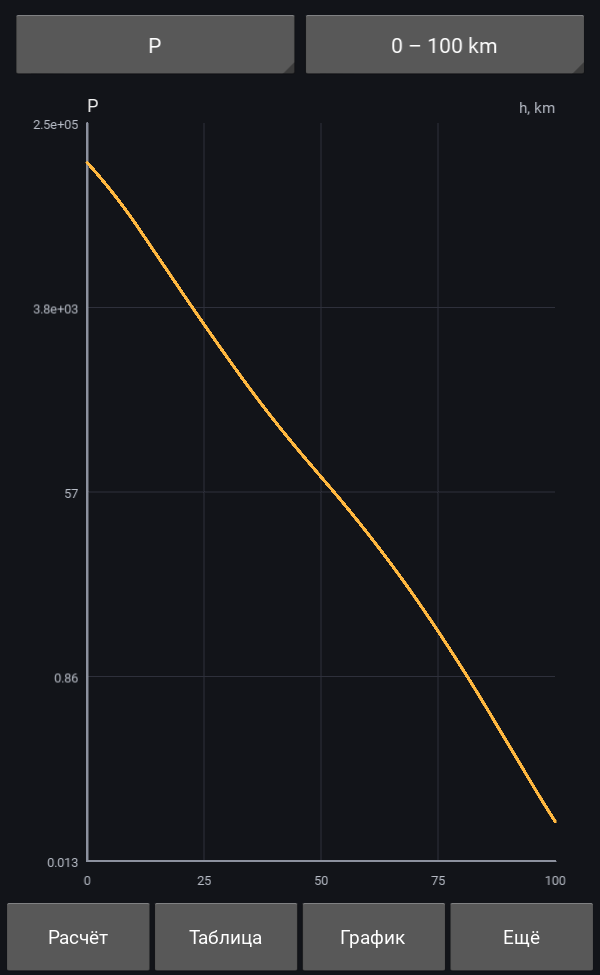
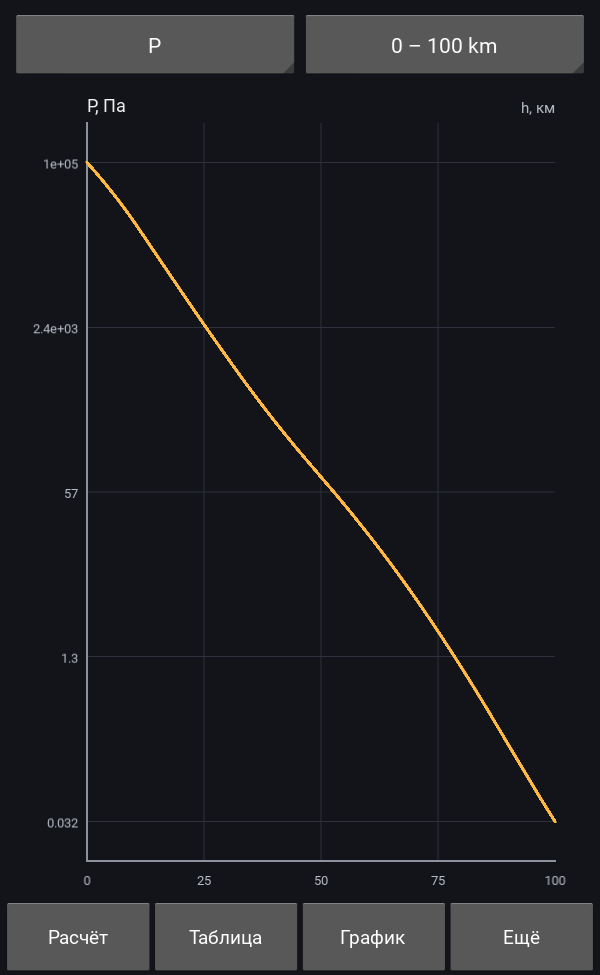
fix: tie plot axis labels to the data and show units
- y-axis ticks are placed at the data extremes, so the value at h = 0
  no longer appears to change when the height range changes
- axis titles include units and are localized (P, Па / P, Pa, ...)
- add std81.plotting.scale_ticks with tests

diff --git a/main.py b/main.py
@@ -38,6 +38,7 @@ from std81 import (
     parse_request,
     rows_to_csv,
 )
+from std81.plotting import scale_ticks
 
 _SUPERSCRIPT = re.compile(r'\^(-?\d+)')
 
@@ -225,12 +226,12 @@ class TableScreen(BoxLayout):
         _toast(i18n.tr('table_copied', count=len(self.rows)))
 
 
-# (symbol, attribute, logarithmic)
+# (symbol, attribute, logarithmic, axis label key)
 PLOT_PARAMETERS = (
-    ('P', 'pressure', True),
-    ('T', 'temperature', False),
-    ('rho', 'density', True),
-    ('a', 'sound_speed', False),
+    ('P', 'pressure', True, 'plot_axis_p'),
+    ('T', 'temperature', False, 'plot_axis_t'),
+    ('ρ', 'density', True, 'plot_axis_rho'),
+    ('a', 'sound_speed', False, 'plot_axis_a'),
 )
 PLOT_SPANS = (20_000, 50_000, 100_000, 1_200_000)
 PLOT_SAMPLES = 240
@@ -263,11 +264,16 @@ class PlotWidget(Widget):
             return
 
         xs = self._xs
-        values = [self._log10(v) for v in self._ys]
         x0, x1 = xs[0], xs[-1]
-        y0, y1 = min(values), max(values)
-        if y0 == y1:
-            y0, y1 = y0 - 1.0, y1 + 1.0
+        low, high = min(self._ys), max(self._ys)
+        if low == high:
+            position = log10(low) if self._log else low
+            positions = [position] * 5
+            shown = [low] * 5
+            y0, y1 = position - 0.5, position + 0.5
+        else:
+            positions, shown = scale_ticks(low, high, 5, self._log)
+            y0, y1 = positions[0], positions[-1]
         pad = (y1 - y0) * 0.06
         y0 -= pad
         y1 += pad
@@ -278,13 +284,14 @@ class PlotWidget(Widget):
         def py(y):
             return bottom + (y - y0) / (y1 - y0) * height
 
+        x_ticks = [x0 + (x1 - x0) * index / 4 for index in range(5)]
+
         with self.canvas:
             Color(0.18, 0.19, 0.23, 1)
-            for index in (1, 2, 3):
-                y = bottom + height * index / 4
-                Line(points=[left, y, left + width, y], width=1)
-                x = left + width * index / 4
-                Line(points=[x, bottom, x, bottom + height], width=1)
+            for tick in positions:
+                Line(points=[left, py(tick), left + width, py(tick)], width=1)
+            for tick in x_ticks[1:-1]:
+                Line(points=[px(tick), bottom, px(tick), bottom + height], width=1)
 
             Color(0.55, 0.57, 0.62, 1)
             Line(points=[left, bottom, left + width, bottom], width=1.2)
@@ -292,24 +299,17 @@ class PlotWidget(Widget):
 
             Color(1.0, 0.72, 0.25, 1)
             points = []
-            for x, y in zip(xs, values):
-                points.extend((px(x), py(y)))
+            for x, y in zip(xs, self._ys):
+                points.extend((px(x), py(log10(y) if self._log else y)))
             Line(points=points, width=1.6)
 
         self._text(self._title, left, self.height - dp(18), size=12, color=(0.95, 0.95, 0.95, 1))
-        self._text('h, km', left + width, self.height - dp(18), size=10, anchor='right')
-        for index in range(5):
-            value = y0 + (y1 - y0) * index / 4
-            shown = 10 ** value if self._log else value
-            self._text(f'{shown:.2g}', left - dp(6), bottom + height * index / 4 - dp(6),
-                       size=9, anchor='right')
-            x = x0 + (x1 - x0) * index / 4
-            self._text(f'{x / 1000:.0f}', left + width * index / 4, dp(8),
-                       size=9, anchor='center')
-
-    @staticmethod
-    def _log10(value):
-        return log10(value) if value > 0 else -12.0
+        self._text(i18n.tr('plot_axis_h'), left + width, self.height - dp(18),
+                   size=10, anchor='right')
+        for tick, value in zip(positions, shown):
+            self._text(f'{value:.2g}', left - dp(6), py(tick) - dp(6), size=9, anchor='right')
+        for tick in x_ticks:
+            self._text(f'{tick / 1000:.0f}', px(tick), dp(8), size=9, anchor='center')
 
     def _text(self, text, x, y, size=10, anchor='left', color=(0.72, 0.74, 0.78, 1)):
         core = CoreLabel(text=text, font_size=sp(size))
@@ -327,7 +327,7 @@ class PlotWidget(Widget):
 class PlotScreen(BoxLayout):
     def on_kv_post(self, base_widget):
         spinner = self.ids.parameter_spinner
-        spinner.values = [symbol for symbol, _, _ in PLOT_PARAMETERS]
+        spinner.values = [item[0] for item in PLOT_PARAMETERS]
         spinner.text = 'P'
         self.ids.span_spinner.values = [f'0 – {span // 1000} km' for span in PLOT_SPANS]
         self.ids.span_spinner.text = self.ids.span_spinner.values[2]
@@ -345,7 +345,11 @@ class PlotScreen(BoxLayout):
         xs = [span * index / (PLOT_SAMPLES - 1) for index in range(PLOT_SAMPLES)]
         states = [compute(height) for height in xs]
         ys = [getattr(state, parameter[1]) for state in states]
-        self.ids.plot.set_data(xs, ys, log=parameter[2], title=symbol)
+        self.ids.plot.set_data(xs, ys, log=parameter[2], title=i18n.tr(parameter[3]))
+
+    def retranslate(self):
+        if self.ids.parameter_spinner.text:
+            self.refresh()
 
 
 class Root(BoxLayout):
@@ -357,6 +361,7 @@ class Root(BoxLayout):
         ids.nav_settings.text = i18n.tr('nav_settings')
         ids.calc_screen.retranslate()
         ids.table_screen.retranslate()
+        ids.plot_screen.retranslate()
 
     def show(self, name):
         self.ids.manager.current = name

diff --git a/tests/test_plotting.py b/tests/test_plotting.py
@@ -1,0 +1,43 @@
+"""Tests for plot axis ticks (no Kivy required)."""
+
+import os
+import sys
+import unittest
+
+ROOT = os.path.dirname(os.path.dirname(os.path.abspath(__file__)))
+sys.path.insert(0, ROOT)
+
+from std81.plotting import scale_ticks  # noqa: E402
+
+
+class ScaleTicksTest(unittest.TestCase):
+    def test_linear(self):
+        positions, values = scale_ticks(186.0, 1000.0, 5)
+        self.assertEqual(len(positions), 5)
+        self.assertAlmostEqual(positions[0], 186.0)
+        self.assertAlmostEqual(positions[-1], 1000.0)
+        self.assertEqual(values, positions)
+
+    def test_logarithmic(self):
+        positions, values = scale_ticks(0.032, 101325.0, 5, logarithmic=True)
+        self.assertAlmostEqual(values[0], 0.032)
+        self.assertAlmostEqual(values[-1], 101325.0)
+        self.assertGreater(positions[-1], positions[0])
+        self.assertTrue(all(value > 0 for value in values))
+
+    def test_labels_are_independent_of_padding(self):
+        # The first/last labels must be the data extremes for any range.
+        for low, high in ((0.032, 101325.0), (0.002, 101325.0), (0.0003, 101325.0)):
+            _, values = scale_ticks(low, high, 5, logarithmic=True)
+            self.assertAlmostEqual(values[0], low)
+            self.assertAlmostEqual(values[-1], high)
+
+    def test_invalid(self):
+        with self.assertRaises(ValueError):
+            scale_ticks(1.0, 2.0, 1)
+        with self.assertRaises(ValueError):
+            scale_ticks(0.0, 2.0, 5, logarithmic=True)
+
+
+if __name__ == '__main__':
+    unittest.main()

diff --git a/std81/plotting.py b/std81/plotting.py
@@ -1,0 +1,30 @@
+"""Axis ticks for the plot (no Kivy dependency)."""
+
+from math import log10
+from typing import List, Tuple
+
+
+def scale_ticks(
+    low: float,
+    high: float,
+    count: int = 5,
+    logarithmic: bool = False,
+) -> Tuple[List[float], List[float]]:
+    """Return tick positions and the values they represent.
+
+    Positions are in the coordinate system used for drawing (``log10`` values
+    for a logarithmic axis).  The first and last ticks are exactly ``low`` and
+    ``high``, so the axis labels depend on the data only, never on the padding
+    around the curve.
+    """
+    if count < 2:
+        raise ValueError('count must be at least 2')
+    if logarithmic:
+        if low <= 0 or high <= 0:
+            raise ValueError('logarithmic ticks require positive values')
+        start, stop = log10(low), log10(high)
+    else:
+        start, stop = float(low), float(high)
+    positions = [start + (stop - start) * index / (count - 1) for index in range(count)]
+    values = [10.0 ** position for position in positions] if logarithmic else positions
+    return positions, values

diff --git a/std81/i18n.py b/std81/i18n.py
@@ -41,7 +41,11 @@ TRANSLATIONS: Dict[str, Dict[str, str]] = {
         'table_copied': 'CSV скопирован: строк {count}',
         'plot_parameter': 'Параметр',
         'plot_span': 'Диапазон',
-        'plot_span_value': '0 – {km} км',
+        'plot_axis_h': 'h, км',
+        'plot_axis_p': 'P, Па',
+        'plot_axis_t': 'T, К',
+        'plot_axis_rho': 'ρ, кг/м³',
+        'plot_axis_a': 'a, м/с',
         'plot_empty': 'Нет данных',
         'settings_title': 'Настройки',
         'settings_language': 'Язык',
@@ -81,7 +85,11 @@ TRANSLATIONS: Dict[str, Dict[str, str]] = {
         'table_copied': 'CSV copied: {count} rows',
         'plot_parameter': 'Parameter',
         'plot_span': 'Range',
-        'plot_span_value': '0 – {km} km',
+        'plot_axis_h': 'h, km',
+        'plot_axis_p': 'P, Pa',
+        'plot_axis_t': 'T, K',
+        'plot_axis_rho': 'ρ, kg/m³',
+        'plot_axis_a': 'a, m/s',
         'plot_empty': 'No data',
         'settings_title': 'Settings',
         'settings_language': 'Language',
